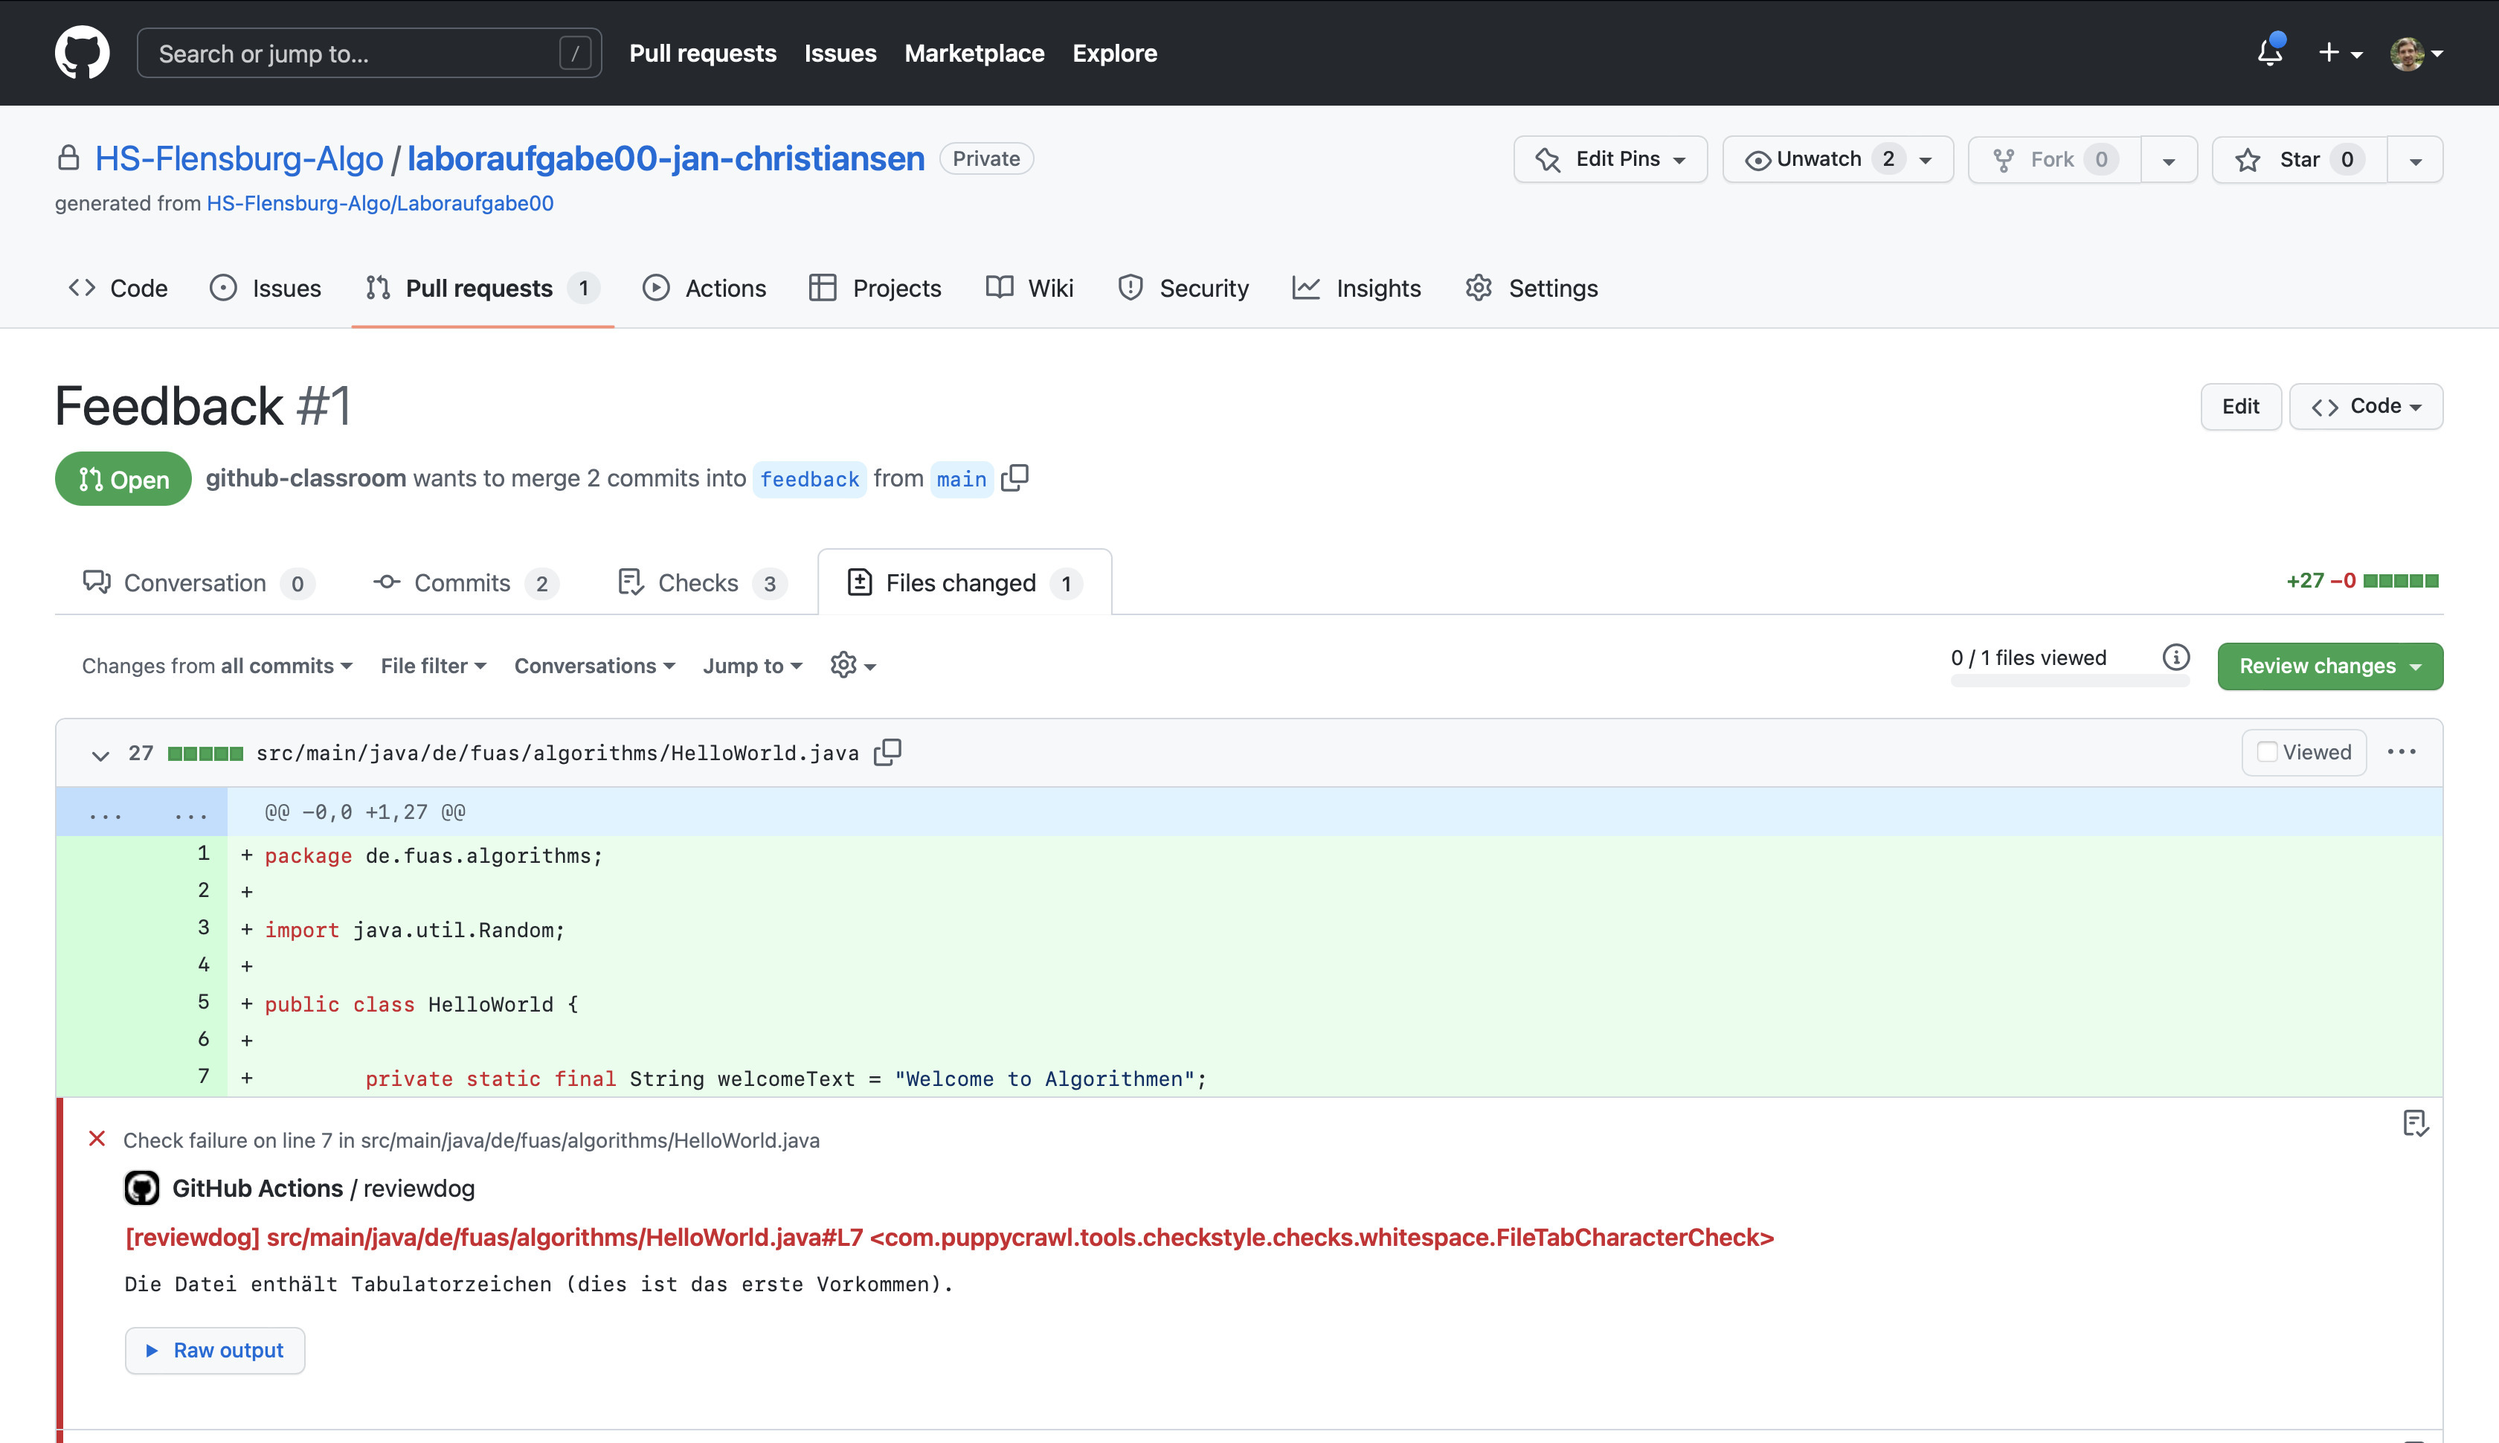
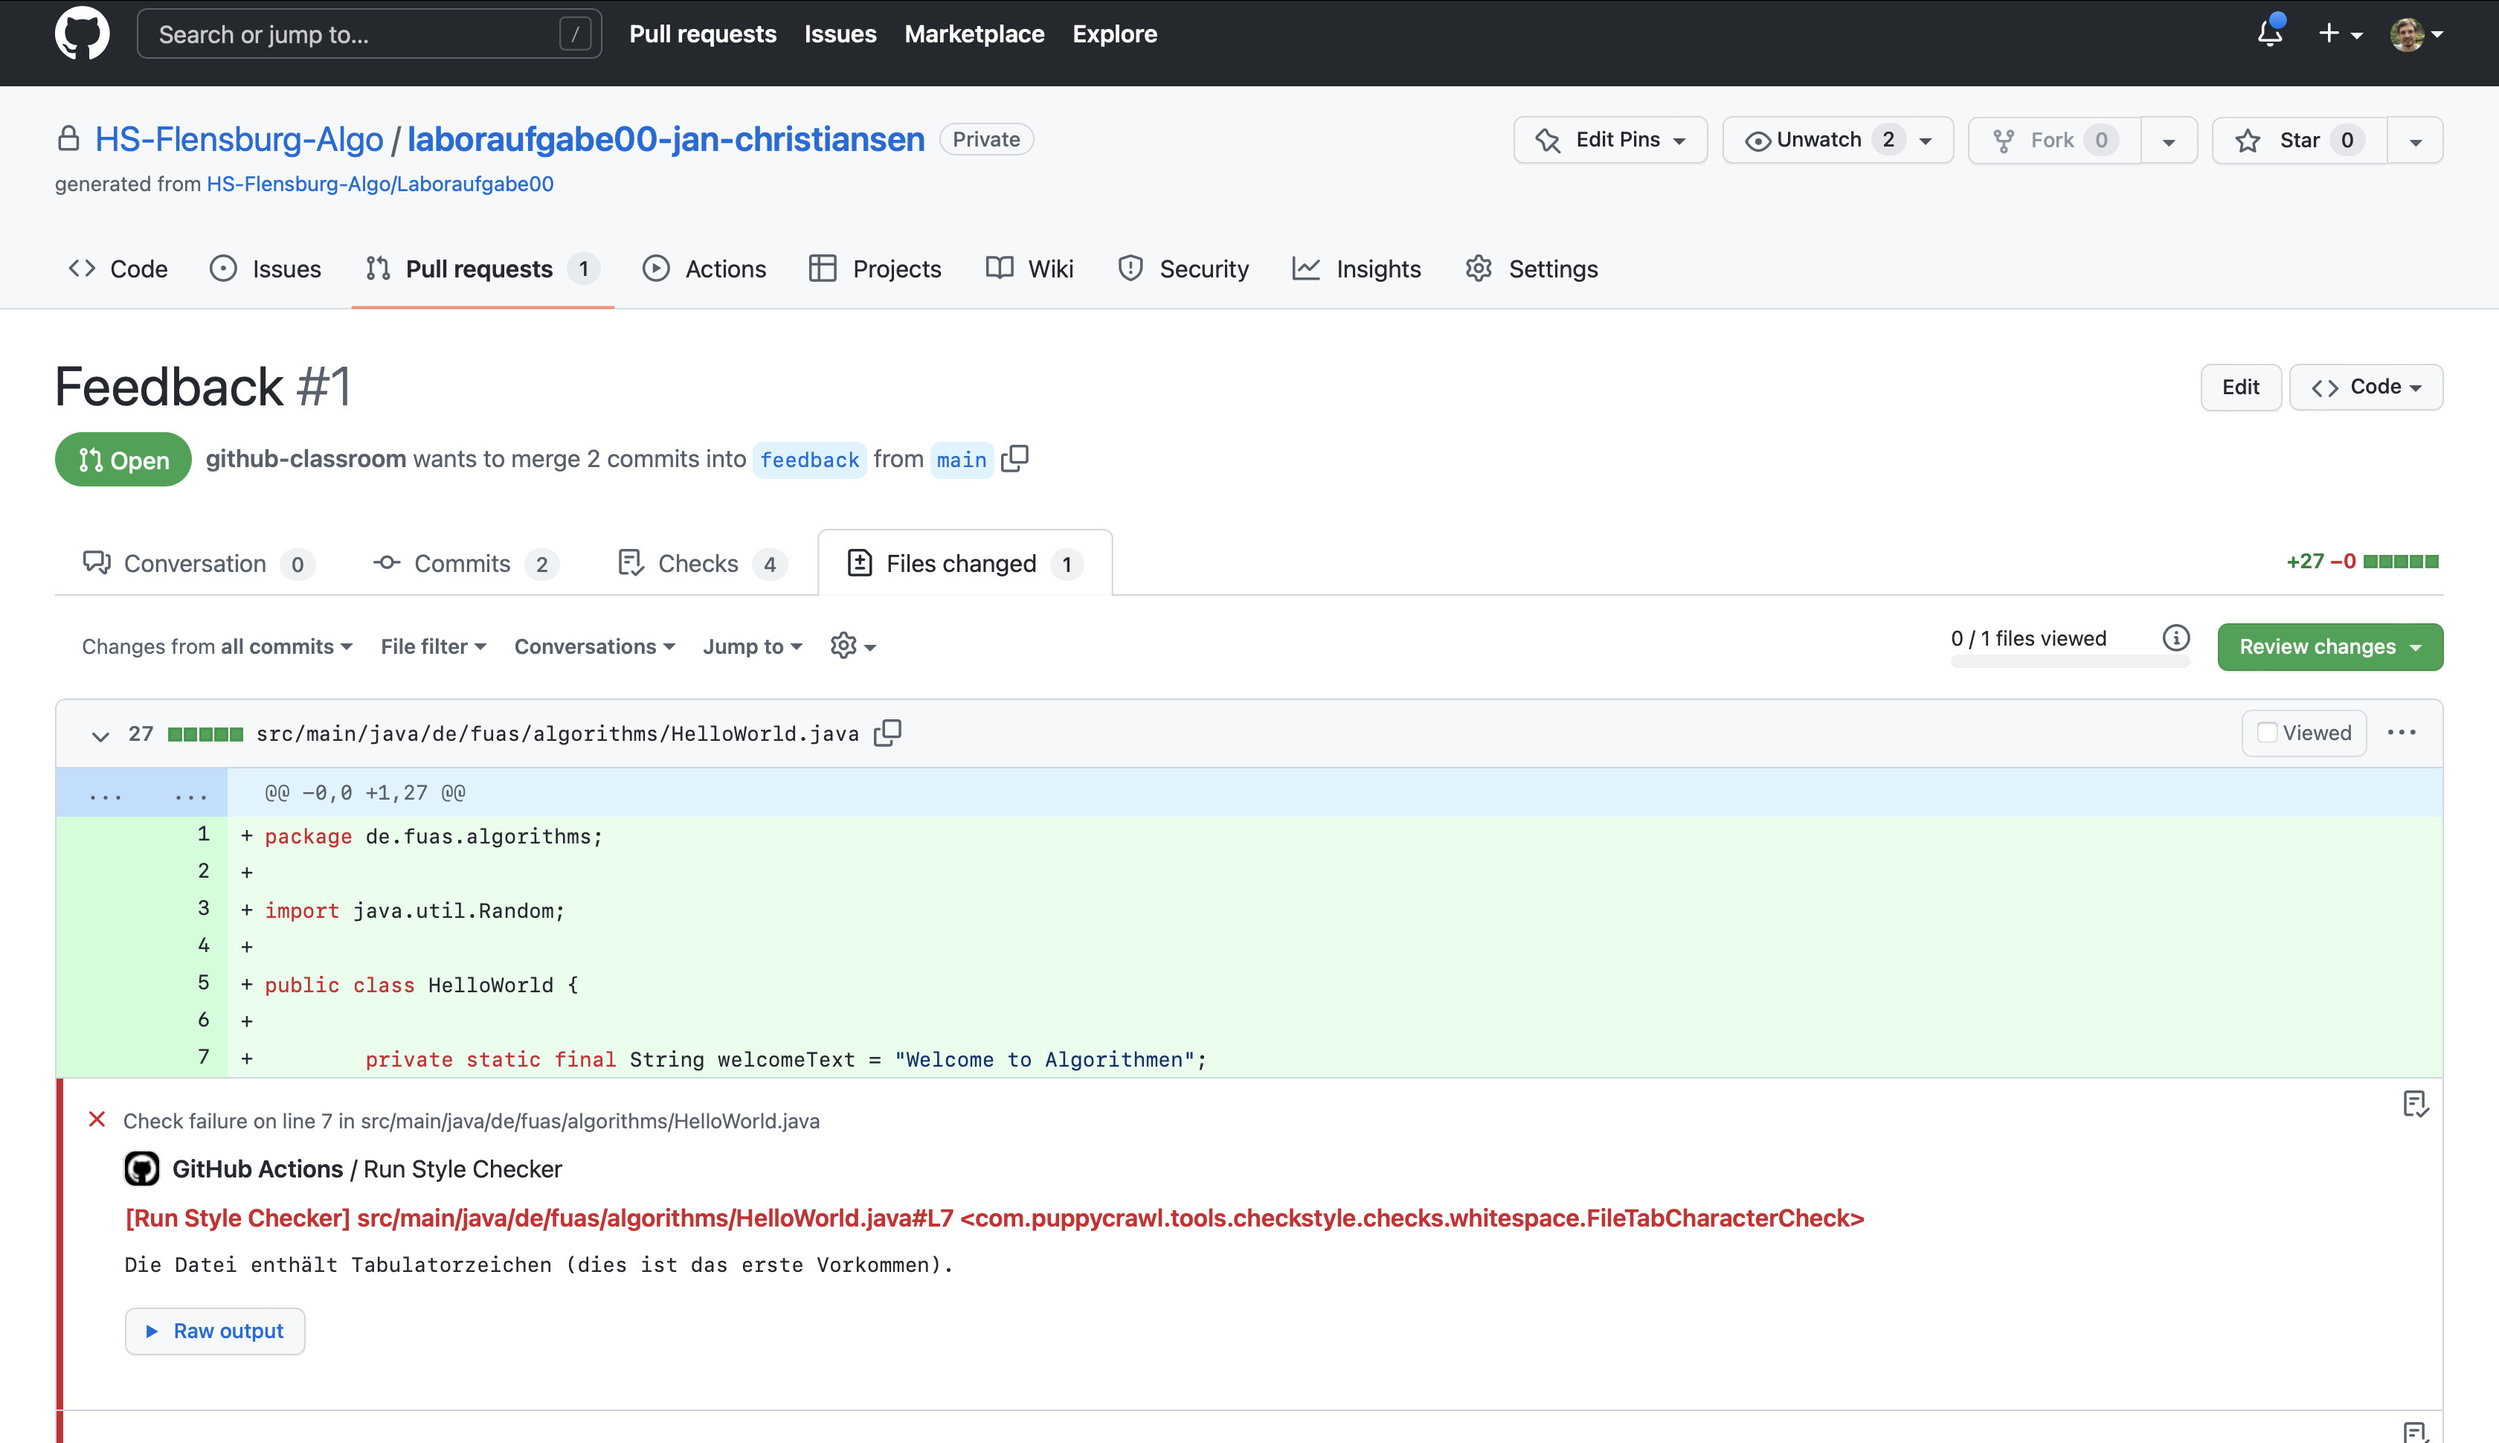
Add text about manual comments

diff --git a/feedback.md b/feedback.md
@@ -3,13 +3,17 @@ layout: post
 title: "Feedback"
 ---
 
-1. [Stil-Anmerkungen des Linters](#stil-anmerkungen-des-linters)
+1. [Automatische Checks](#automatische-checks)
 
-2. [Testfälle](#testfälle)
+2. [Stil-Anmerkungen des Linters](#stil-anmerkungen-des-linters)
 
-3. [Manuelle Kommentare](#manuelle-kommentare)
+3. [Testfälle](#testfälle)
+
+4. [Manuelle Kommentare](#manuelle-kommentare)
 
 <br/>
+
+## Automatische Checks
 
 Die _Repositories_ mit den Laboraufgaben sind so konfiguriert, dass automatisch geprüft wird, dass ihr euch an bestimmte Programmierregeln haltet und dass die Testfälle alle erfolgreich sind.
 Die automatische Überprüfung der Programmierregeln wird mit dem Tool [Checkstyle](https://checkstyle.sourceforge.io) durchgeführt.
@@ -27,34 +31,36 @@ Das rote Kreuz zeigt an, dass die automatischen Checks noch Fehler gefunden habe
 
 ![](images/reviewdog/step2.jpg)
 
-In dem _Pull Request_ namens Feedback könnt ihr sehen, ob die Checks Fehler gefunden haben.
+In dem _Pull Request_ namens Feedback könnt ihr sehen, welcher Check Fehler gefunden hat.
 Dazu müsst ihr auf der Seite etwas runterscrollen.
 Die Fehler werden durch ein rotes Kreuz signalisiert.
 Es gibt drei verschiedene Checks.
+Im _Pull Request_ werden vier Checks angezeigt, aber der Check `Set Up Style Checker` führt nur eine interne Initialisierung aus und sollte immer erfolgreich sein.
 
 ![](images/reviewdog/step3.jpg)
 
 
 ## Stil-Anmerkungen des Linters
 
-Der Style Checker überprüft, dass ihr euch an Grundregeln der Programmierung unter Java haltet und gibt euch ggf. noch Tipps, wie man die Struktur eures Codes verbessern kann.
-Der Schritt `Run Style Checker` sollte zum Abgabetermin einen grünen Haken zeigen.
+Der Style Checker überprüft, dass ihr euch an Grundregeln der Programmierung unter Java haltet bzw. gibt euch Tipps, wie ihr die Struktur eures Codes verbessern könnt.
+Der Schritt `Run Style Checker` sollte zum initialen Abgabetermin einen grünen Haken zeigen.
 Im _Pull Request_ mit dem Namen _Feedback_, könnt ihr oben den Reiter _Files changed_ auswählen.
 
 ![](images/reviewdog/step4.jpg)
 
 Unter _Files changed_ seht ihr alle Änderungen, die ihr an dem Code im _Repositories_ durchgeführt habt.
-Dort könnt ihr auch zeilenweise die Anmerkungen des reviewdog sehen.
+Dort könnt ihr auch zeilenweise die Anmerkungen des Linters sehen.
 Die Anmerkung steht jeweils unter der Codezeile, auf die sich die Anmerkung bezieht.
 
 ![](images/reviewdog/step5.jpg)
 
-In diesem Fall merkt der reviewdog zum Beispiel an, dass man in Sourcecode die Einrückung des Codes mit Leerzeichen und nicht mit Tabulatoren machen sollte.
-Der reviewdog überpüft unter anderem, dass eurer Code eine bestimmte Einrückung nutzt.
-Ihr könnt Eclipse so konfigurieren, dass es automatisch die gewünschte Einrückung erzeugt.
-Wie könnt ihr unter https://hs-flensburg-algo.github.io/tutorials/eclipse.html#einstellungen lesen.
+In diesem Fall merkt der reviewdog zum Beispiel an, dass man im Quellcode die Einrückung des Codes mit Leerzeichen und nicht mit Tabulatoren machen sollte.
 
-Zur Abgabe sollte der reviewdog keine Anmerkungen mehr zu eurem Code haben.
+Der Linter überpüft unter anderem, dass eurer Code eine bestimmte Einrückung nutzt.
+Ihr könnt Eclipse so konfigurieren, dass es automatisch die gewünschte Einrückung erzeugt, wenn ihr den Code automatisch formatiert.
+Wie ihr Eclipse konfigurieren könnt, könnt ihr unter https://hs-flensburg-algo.github.io/tutorials/eclipse.html#einstellungen lesen.
+
+Zur Abgabe sollte der Linter keine Anmerkungen mehr zu eurem Code haben.
 Das Umsetzen der Anmerkungen kann durchaus mehrere Iterationen in Anspruch nehmen, wie das folgende Meme eines Studierenden aus einem früheren Semester illustriert.
 
 ![](images/reviewdog/meme.jpg)
@@ -63,21 +69,40 @@ Das Umsetzen der Anmerkungen kann durchaus mehrere Iterationen in Anspruch nehme
 ## Testfälle
 
 Während der Style Checker einige Stilaspekte der Implementierung prüft, prüfen JUnit-Testfälle, ob die geforderten Methoden sich korrekt verhalten.
-Dabei reicht es allerdings nicht, sich auf die Testfälle zu verlassen, da Testfälle immer nur endlich viele Beispielwerte testen, während eine Methode ggf. unendlich viele verschiedene Argumente erhalten kann.
+Dabei reicht es allerdings nicht, sich auf die Testfälle zu verlassen, da Testfälle immer nur endlich viele Beispielwerte testen, während eine Methode ggf. unendlich viele mögliche Eingaben hat.
 Daher ist es trotz der Testfälle wichtig, sich zu überlegen, ob das Verhalten der Methode sinnvoll ist.
 
 Es gibt zwei Gruppen von Testfällen.
 
 ![](images/reviewdog/test-case-results.jpg)
 
-Die 
+Die `Basic Test Cases` enthalten grundlegenden Prüfungen der Funktionalität und sollten schon zum initialen Abgabetermin grün sein.
+Die `Advanced Test Cases` testen Verhalten ab, das erfahrungsgemäß etwas schwieriger umzusetzen ist.
+Diese Testfälle müssen erst zur Abgabe der Überarbeitung grün sein.
 
+Die Testfälle könne einfach in Eclipse ausgeführt werden, so dass die Lösung nicht hochgeladen werden muss, um zu prüfen, ob die Testfälle erfüllt sind.
+Unter https://hs-flensburg-algo.github.io/tutorials/eclipse.html#ausführen-von-junit-testfällen wird erläutert, wie man die Testfälle in Eclipse ausführt.
 
 
 ## Manuelle Kommentare
 
-
-Wenn ihr eine Lösung hochgeladen habt, schaue ich mir die Lösung in der entsprechenden Laborzeit an und schreibe Kommentare.
+Einige inhaltliche Anmerkungen können nicht durch ein automatisiertes Tool erstellt werden.
+Daher schaue ich mir die Abgaben in der Laborzeit an und schreibe Anmerkungen.
+Diese Anmerkungen müssen ebenfalls alle bei der Abgabe der überarbeiteten Version abgearbeitet sein.
 Diese Kommentare findet ihr ebenfalls unter _Files changed_ des _Pull Requests_.
 
-![](images/reviewdog/manual-comments.png)
+![](images/reviewdog/manual-comment.jpg)
+
+Die von mir geschriebenen Anmerkungen könnt ihr auch auf der Übersichtsseite des _Pull Requests_ sehen.
+Ich markiere beim Schreiben der Anmerkungen die Codezeilen, auf die sich der Kommentar bezieht.
+Diese Codezeilen könnt ihr oberhalb des Kommentares sehen.
+
+![](images/reviewdog/manual-comment-overview.jpg)
+
+Ein Kommentar bezieht sich immer auf die Codezeilen am unteren Ende des Ausschnitts.
+In diesem Fall bezieht sich der Kommentar zum Beispiel auf die Zeile 7.
+GitHub zeigt bei einem solchen Kommentar immer mindestens vier Zeilen an, auch wenn sich der Kommentar nur auf eine Zeile bezieht.
+Dies führt manchmal zu Missverständnisse, auf welchen Teil des Codes sich ein Kommentar bezieht.
+
+Wenn ein Kommentar aus meiner Sicht abgearbeitet ist, wird er von mir als _Resolved_ markiert.
+Wenn alle Kommentare als _Resolved_ markiert sind und die Checks alle grün sind, wird der _Pull Request_ geschlossen.
